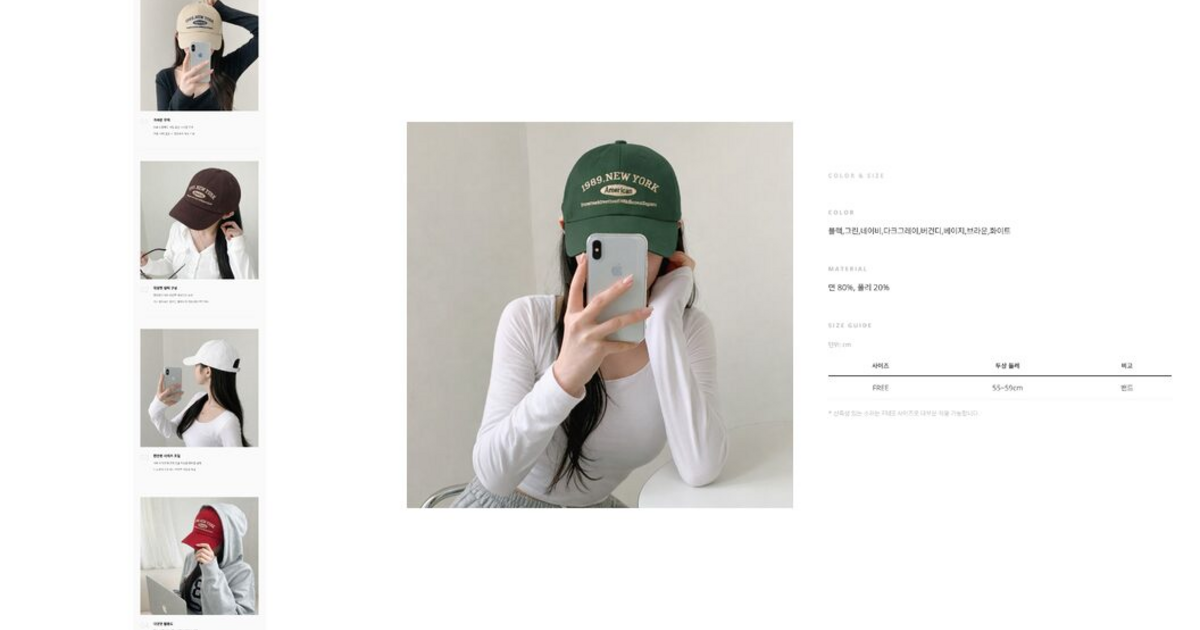
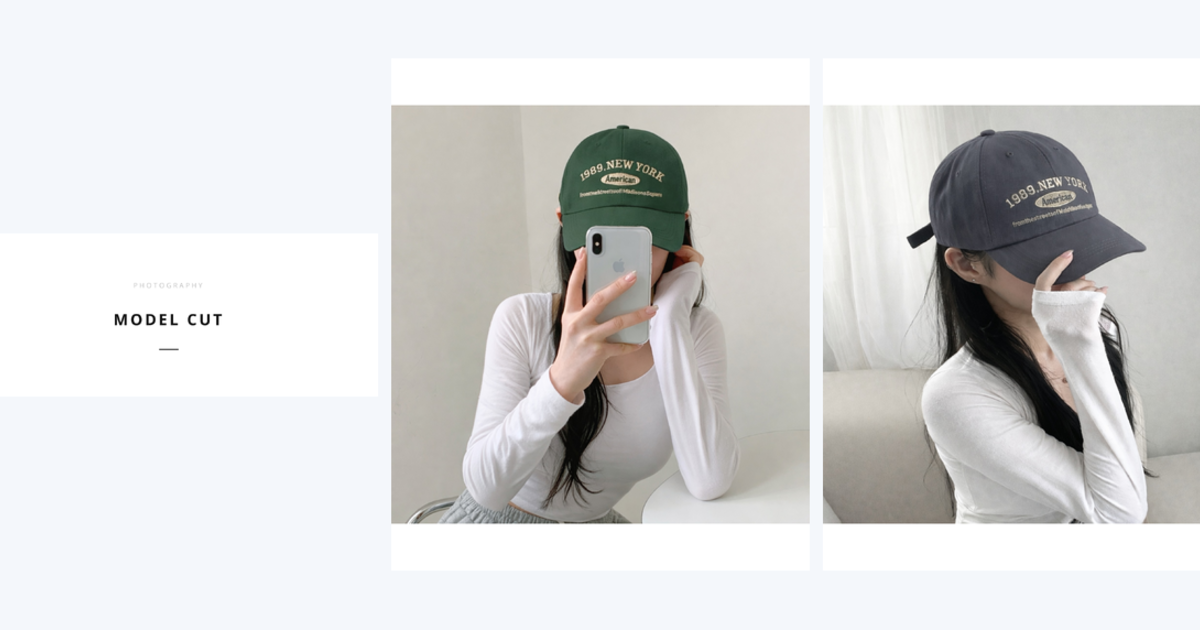
fix: 셀러AI 13편 재탕 제거 — 글마다 다른 실제 결과물
- 본문 공유(svc-sellerai) → 글별 개별 이미지(sai-*) 13종
- 커버 재탕 3편(상세/모델/단독) 신규 이미지로 교체
- 누끼·상세단계·제품착장·단독컷·컬러·외국어·브랜드모델을 글 주제별 배분
- 셀러AI 폴더 대량 결과물 활용해 재탕 최소화

diff --git a/content/blog/ai-model-cut.md b/content/blog/ai-model-cut.md
@@ -14,7 +14,7 @@ relatedServices: [sellerai]
 문제는 비용과 시간입니다. 모델 섭외, 스튜디오 대여, 촬영, 보정까지 한 번 돌리려면 작은 쇼핑몰 입장에서는 부담이 큽니다. 신상품을 자주 올려야 하는데, 매번 촬영 일정을 잡는 것 자체가 병목입니다. 최근에는 상품 사진 한 장만 있으면 AI가 모델 착용컷을 만들어 주는 방식이 현장에 자리를 잡았습니다. 이 글에서는 그 원리와 실제 비용·시간 차이, 그리고 결과를 자연스럽게 뽑는 실전 요령까지 정리합니다.
 
 
-![SellerAI 실제 화면](/blog/inline/svc-sellerai.jpg)
+![SellerAI 실제 화면](/blog/inline/sai-ai-model-cut.jpg)
 
 > 📱 **SellerAI** — 상품 사진 한 장으로 모델 착용컷·누끼·상세페이지까지 만드는 AI 서비스. [SellerAI 자세히 보기 →](https://www.armes.co.kr/sellerai/studio)
 

diff --git a/content/blog/ai-background-removal.md b/content/blog/ai-background-removal.md
@@ -14,7 +14,7 @@ relatedServices: [sellerai]
 예전에는 포토샵으로 펜툴을 잡고 경계선을 일일이 따야 했습니다. 한 장에 몇 분, 머리카락이 있으면 십수 분도 걸렸습니다. 지금은 AI가 같은 일을 1분 안에 해냅니다. 다만 **아무 사진이나 깔끔하게 되는 건 아닙니다.** 이 글에서는 누끼의 원리, 수작업 대비 실제 비용·시간 차이, 그리고 결과가 지저분해지지 않게 하는 실전 요령까지 정리합니다.
 
 
-![SellerAI 실제 화면](/blog/inline/svc-sellerai.jpg)
+![SellerAI 실제 화면](/blog/inline/sai-ai-background-removal.jpg)
 
 > 📱 **SellerAI** — 상품 사진 한 장으로 모델 착용컷·누끼·상세페이지까지 만드는 AI 서비스. [SellerAI 자세히 보기 →](https://www.armes.co.kr/sellerai/studio)
 

diff --git a/content/blog/why-armes-ai.md b/content/blog/why-armes-ai.md
@@ -14,7 +14,7 @@ relatedServices: [sellerai, tools]
 아르메스의 대표는 유통 현장에서 오랜 시간을 보냈습니다. 상품을 팔고, 고객을 만나고, 매일 같은 일을 직접 했습니다. 그 과정에서 분명해진 게 하나 있었습니다. **정작 중요한 일에 쓸 시간이, 반복 작업에 자꾸 새어 나간다**는 점이었습니다. 이 글에서는 그 불편이 어떻게 실제 서비스가 되었는지, 아르메스가 일하는 원칙은 무엇인지 나눕니다.
 
 
-![SellerAI 실제 화면](/blog/inline/svc-sellerai.jpg)
+![SellerAI 실제 화면](/blog/inline/sai-why-armes-ai.jpg)
 
 > 📱 **SellerAI** — 상품 사진 한 장으로 모델 착용컷·누끼·상세페이지까지 만드는 AI 서비스. [SellerAI 자세히 보기 →](https://www.armes.co.kr/sellerai/studio)
 

diff --git a/content/blog/how-ranking-works.md b/content/blog/how-ranking-works.md
@@ -14,7 +14,7 @@ relatedServices: [rankingpangpang]
 그런데 여기 큰 오해가 하나 있습니다. **이 랭킹은 "많이 팔린 순서"가 아닙니다.** 누적 판매 1등이 항상 맨 위에 있는 게 아니라는 뜻입니다. 어제 갑자기 치고 올라온 신상품이 1년 베스트셀러를 제치기도 합니다. 이 글에서는 랭킹이 정해지는 원리와, 그 흐름을 사는 쪽·파는 쪽에서 각각 활용하는 법을 정리합니다.
 
 
-![SellerAI 실제 화면](/blog/inline/svc-sellerai.jpg)
+![SellerAI 실제 화면](/blog/inline/sai-how-ranking-works.jpg)
 
 > 📱 **SellerAI** — 상품 사진 한 장으로 모델 착용컷·누끼·상세페이지까지 만드는 AI 서비스. [SellerAI 자세히 보기 →](https://www.armes.co.kr/sellerai/studio)
 

diff --git a/content/blog/ai-detail-page-beginner.md b/content/blog/ai-detail-page-beginner.md
@@ -14,7 +14,7 @@ relatedServices: [sellerai]
 다행히 요즘은 AI 도구가 이 과정을 크게 줄여 줍니다. 다만 "버튼만 누르면 완성"이라는 환상은 버려야 합니다. **무엇을 말할지는 사람이 정하고, 만드는 수고를 AI가 던다**는 게 정확한 그림입니다. 이 글에서는 디자인 경험이 전혀 없어도 따라 할 수 있게, 준비물부터 완성까지의 흐름을 단계별로 정리합니다.
 
 
-![SellerAI 실제 화면](/blog/inline/svc-sellerai.jpg)
+![SellerAI 실제 화면](/blog/inline/sai-ai-detail-page-beginner.jpg)
 
 > 📱 **SellerAI** — 상품 사진 한 장으로 모델 착용컷·누끼·상세페이지까지 만드는 AI 서비스. [SellerAI 자세히 보기 →](https://www.armes.co.kr/sellerai/studio)
 

diff --git a/content/blog/google-vs-naver-seo.md b/content/blog/google-vs-naver-seo.md
@@ -14,7 +14,7 @@ relatedServices: []
 한국에서 블로그·홈페이지를 운영한다면 사실상 이 두 검색을 모두 신경 써야 합니다. 다행히 차이의 원리만 이해하면 "어디에 무엇을 맞춰야 할지"가 보입니다. 이 글에서는 구글과 네이버가 무엇을 먼저 보여 주는지, 각각에 맞춘 글쓰기 전략은 무엇인지, 그리고 둘 다 잡는 공통 원칙까지 한 번에 정리합니다.
 
 
-![SellerAI 실제 화면](/blog/inline/svc-sellerai.jpg)
+![SellerAI 실제 화면](/blog/inline/sai-google-vs-naver-seo.jpg)
 
 > 📱 **SellerAI** — 상품 사진 한 장으로 모델 착용컷·누끼·상세페이지까지 만드는 AI 서비스. [SellerAI 자세히 보기 →](https://www.armes.co.kr/sellerai/studio)
 

diff --git a/content/blog/free-ai-image-tools.md b/content/blog/free-ai-image-tools.md
@@ -14,7 +14,7 @@ AI 이미지 도구는 종류가 워낙 많아 무엇부터 써야 할지 막막
 그래서 무료 도구는 **"공짜냐"보다 "내 용도에 실제로 쓸 수 있느냐"**로 골라야 합니다. 이 글에서는 무료 AI 이미지 도구를 용도별로 어떻게 나눠 쓰는지, 고를 때 반드시 확인할 5가지, 그리고 어떤 도구를 쓰든 결과를 좌우하는 공통 원칙까지 정리합니다.
 
 
-![SellerAI 실제 화면](/blog/inline/svc-sellerai.jpg)
+![SellerAI 실제 화면](/blog/inline/sai-free-ai-image-tools.jpg)
 
 > 📱 **SellerAI** — 상품 사진 한 장으로 모델 착용컷·누끼·상세페이지까지 만드는 AI 서비스. [SellerAI 자세히 보기 →](https://www.armes.co.kr/sellerai/studio)
 

diff --git a/content/blog/blog-seo-basics.md b/content/blog/blog-seo-basics.md
@@ -14,7 +14,7 @@ relatedServices: []
 다행히 검색 상위에 가는 글에는 분명한 **공통점**이 있습니다. 그리고 그건 복잡한 기술이 아니라, 누구나 지킬 수 있는 **기본 원칙**입니다. 이 글에서는 검색 1페이지로 가는 글쓰기의 핵심 원칙 다섯 가지를, 통하지 않는 방법과 함께 정리합니다. 실제로 어떻게 적용하는지 예시도 함께 보겠습니다.
 
 
-![SellerAI 실제 화면](/blog/inline/svc-sellerai.jpg)
+![SellerAI 실제 화면](/blog/inline/sai-blog-seo-basics.jpg)
 
 > 📱 **SellerAI** — 상품 사진 한 장으로 모델 착용컷·누끼·상세페이지까지 만드는 AI 서비스. [SellerAI 자세히 보기 →](https://www.armes.co.kr/sellerai/studio)
 

diff --git a/content/blog/smartstore-first-month.md b/content/blog/smartstore-first-month.md
@@ -14,7 +14,7 @@ relatedServices: [sellerai, rankingpangpang]
 상품 50개를 대충 올리는 것보다, 상품 1개를 제대로 올린 경험이 훨씬 값집니다. 그 1개가 나머지 모든 상품의 기준이 되기 때문입니다. 이 글에서는 초보 셀러가 첫 달에 우선순위를 둬야 할 다섯 가지를, 실제로 어디서 막히는지까지 짚어 정리합니다.
 
 
-![SellerAI 실제 화면](/blog/inline/svc-sellerai.jpg)
+![SellerAI 실제 화면](/blog/inline/sai-smartstore-first-month.jpg)
 
 > 📱 **SellerAI** — 상품 사진 한 장으로 모델 착용컷·누끼·상세페이지까지 만드는 AI 서비스. [SellerAI 자세히 보기 →](https://www.armes.co.kr/sellerai/studio)
 

diff --git a/content/blog/detail-page-photo-order.md b/content/blog/detail-page-photo-order.md
@@ -14,7 +14,7 @@ relatedServices: [sellerai]
 이유는 단순합니다. 고객은 상세페이지를 **위에서 아래로 훑으며 점점 마음을 정하기** 때문입니다. 그 시선 흐름과 사진 순서가 어긋나면, 살 사람도 중간에 떠납니다. 이 글에서는 고객의 마음 흐름에 맞춘 배치 순서와, 자주 하는 실수까지 정리합니다.
 
 
-![SellerAI 실제 화면](/blog/inline/svc-sellerai.jpg)
+![SellerAI 실제 화면](/blog/inline/sai-detail-page-photo-order.jpg)
 
 > 📱 **SellerAI** — 상품 사진 한 장으로 모델 착용컷·누끼·상세페이지까지 만드는 AI 서비스. [SellerAI 자세히 보기 →](https://www.armes.co.kr/sellerai/studio)
 

diff --git a/content/blog/product-photo-tips.md b/content/blog/product-photo-tips.md
@@ -14,7 +14,7 @@ relatedServices: [sellerai]
 다행히 좋은 상품 사진은 비싼 장비의 문제가 아닙니다. **빛·배경·구도·보정** 네 가지 기본기만 챙기면, 휴대폰으로도 충분히 팔리는 사진을 찍을 수 있습니다. 이 글에서는 그 기본기와, 촬영 시간을 줄이는 방법까지 정리합니다.
 
 
-![SellerAI 실제 화면](/blog/inline/svc-sellerai.jpg)
+![SellerAI 실제 화면](/blog/inline/sai-product-photo-tips.jpg)
 
 > 📱 **SellerAI** — 상품 사진 한 장으로 모델 착용컷·누끼·상세페이지까지 만드는 AI 서비스. [SellerAI 자세히 보기 →](https://www.armes.co.kr/sellerai/studio)
 
